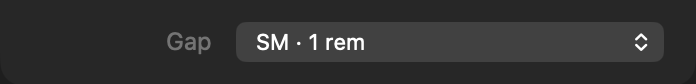
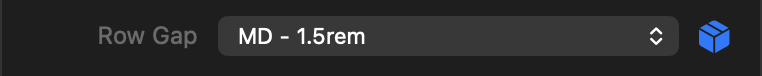
Theme spacing: document the mode button and refresh the screenshot
The single spacing control has the theme/custom mode button again, with
nearest-value snapping back to theme; new screenshot showing the picker
beside the button.

Changed region(s): [[0.1207, 0.3421, 0.5431, 0.6316], [0.8448, 0.2632, 0.9655, 0.7368]]

diff --git a/theme-spacing-control.md b/theme-spacing-control.md
@@ -11,8 +11,8 @@ permalink: /theme-spacing-control.html
 
 
 <figure class="control-screenshot">
-    <img src="assets/screenshots/theme-spacing-control.png" width="348" height="42" alt="Theme spacing picker labelled Gap, with SM · 1 rem selected." />
-    <figcaption>Developers supply the label; this example uses the spacing value as a gap.</figcaption>
+    <img src="assets/screenshots/theme-spacing-control.png?v=2" width="381" height="38" alt="Theme spacing picker labelled Row Gap with MD - 1.5rem selected, beside the theme/custom mode button." />
+    <figcaption>Developers supply the label; this example uses the spacing value as a row gap. The box button switches between theme and custom values.</figcaption>
 </figure>
 
 ## Quick example
@@ -71,7 +71,9 @@ A dictionary containing the required `base` value and optional breakpoint values
 
 A theme spacing token (`3xs`, `2xs`, `xs`, `sm`, `md`, `lg`, `xl`, `2xl`, `3xl`), `none`, or a custom length dictionary containing exactly `value` (finite, nonnegative Number) and `unit` (`px`, `rem`, `em`, `%`). Arrays, edge dictionaries, negative lengths, `auto`, and raw CSS strings such as `16px` are rejected.
 
-The picker offers the current theme’s spacing choices, including user-created theme spacing values. Portable manifest defaults use the predefined tokens above. The declared default decides the editor: a theme token shows the theme-value picker, and a custom length shows a number field with a unit menu. There is no Inspector switch between the two; declare a custom default when the author should edit a raw length.
+The picker offers the current theme’s spacing choices, including user-created theme spacing values. Portable manifest defaults use the predefined tokens above.
+
+A mode button beside the control switches between theme values and a custom length, matching the four-edge spacing controls. Theme mode shows the theme-value picker; custom mode shows a number field with a unit menu. Switching to custom starts with the selected theme amount in rem; switching back to theme selects the nearest theme value.
 
 ```xml
 <key>defaults</key><dict><key>base</key><dict>
